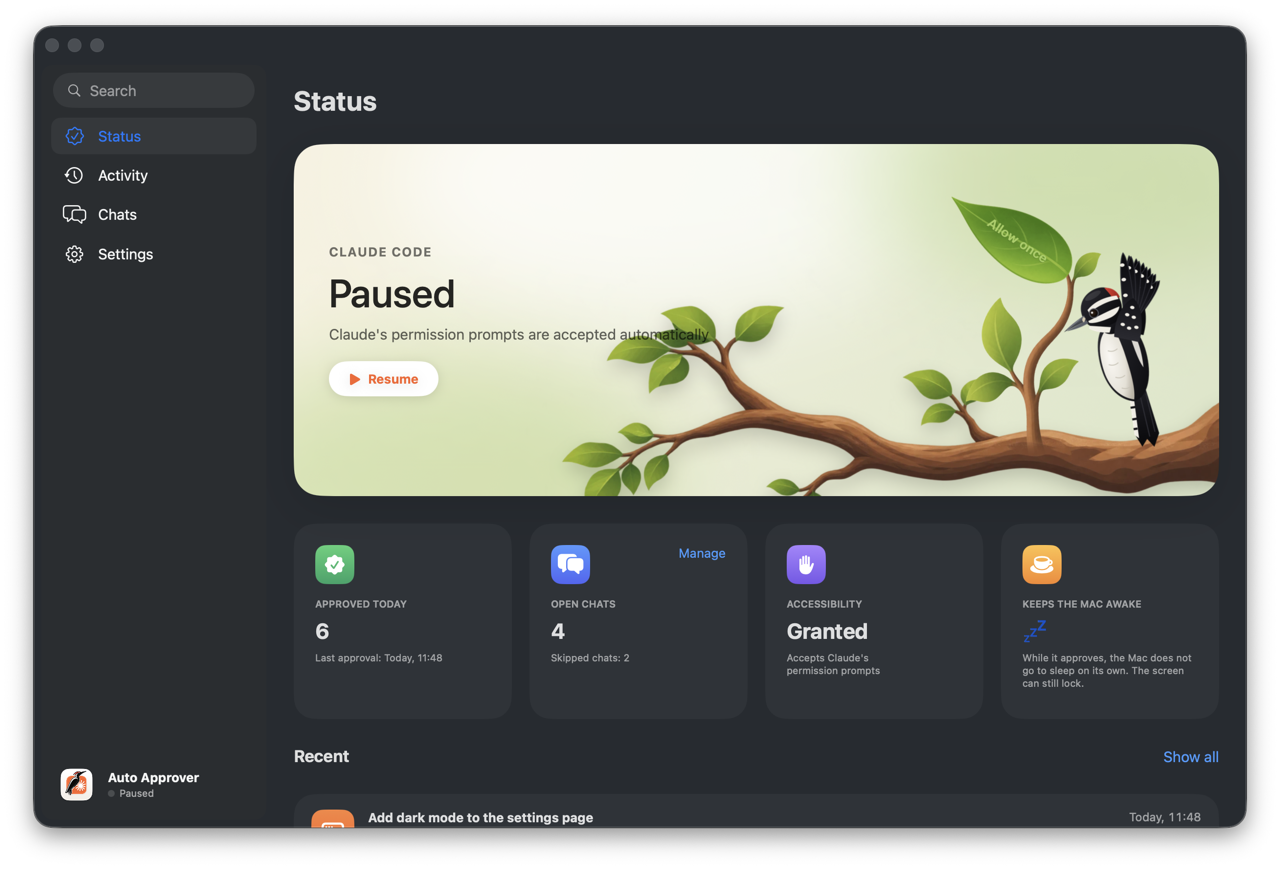
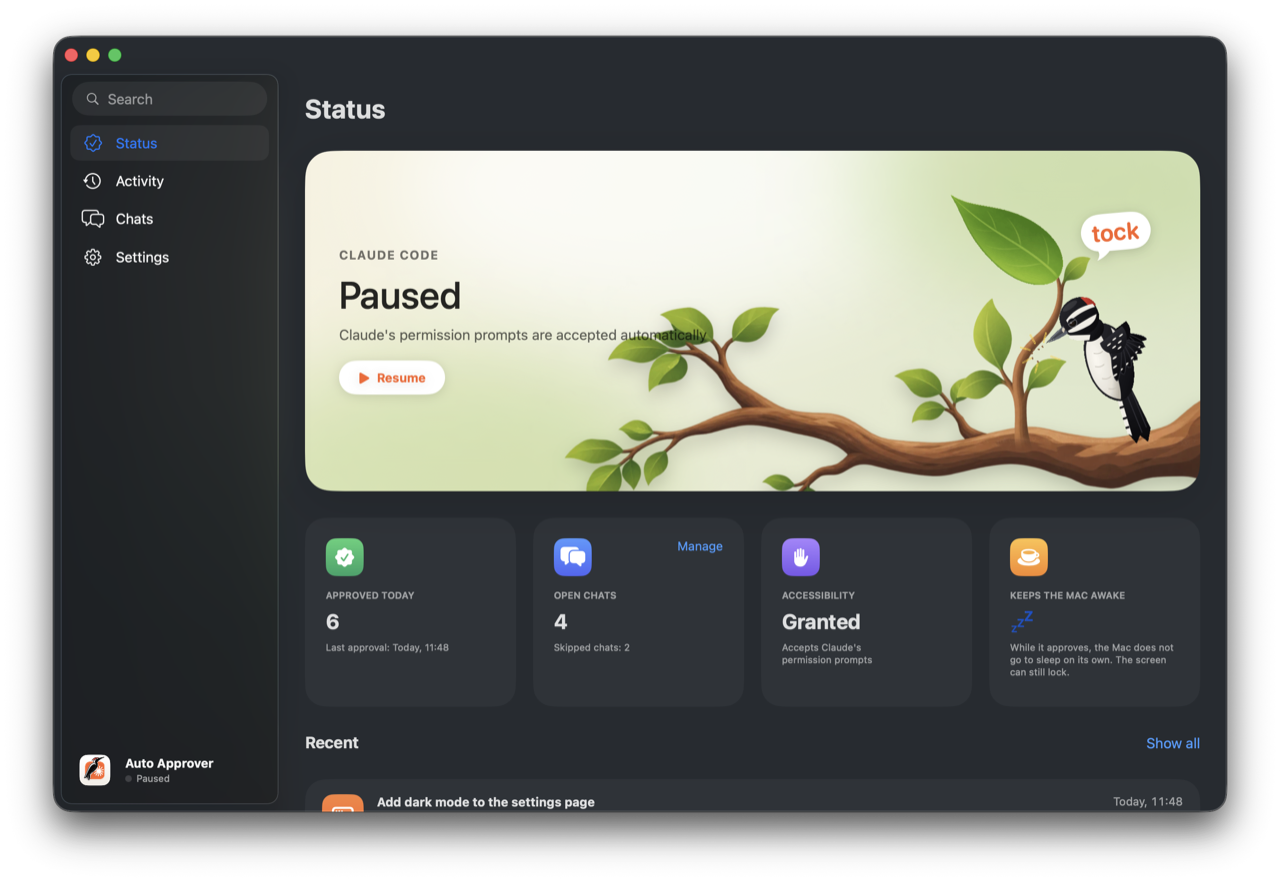
feat(macos): animate the woodland scene while auto-approve is paused
The paused Status page showed a still woodpecker. It now pecks the twig, which shakes,
and the leaf swings, on the same clock as the key scene and paused the same way while
the window is hidden. The leaf no longer carries an Allow once label, and the comic TOC!
gives way to the same white bubble as the key's tick, saying tock. Both scenes take
their strikes from the key's press file, since the two GIFs share one timeline.

Changed region(s): [[0.0, 0.0311, 1.0, 0.9942]]

diff --git a/macos/sources/app/HeroScene.swift b/macos/sources/app/HeroScene.swift
@@ -33,40 +33,90 @@ private func backdrop(_ context: inout GraphicsContext, _ size: CGSize, light: [
     }
 }
 
-/// The hero while auto-approve is paused: the woodpecker rests in a wood, by the leafy branch
-/// that comes in from the card's right edge, beside the twig the **Allow once** leaf hangs from.
+/// The sound of a strike, in a bubble: it pops in, holds and fades before the next strike,
+/// which sets its bubble at `other` instead of `at`. `unit` sizes it, and its tail curls down
+/// from `tail`, a fraction of its width from its middle, towards what was struck.
+private func drawBubble(_ word: String, in context: inout GraphicsContext, at: CGPoint, other: CGPoint,
+                        unit: CGFloat, tail: CGFloat, age: Int, odd: Bool) {
+    let text = context.resolve(Text(word).font(.system(size: unit * 0.17, weight: .semibold, design: .rounded)).foregroundColor(coral))
+    let measured = text.measure(in: CGSize(width: unit, height: unit))
+    let width = measured.width + unit * 0.16, height = measured.height + unit * 0.07
+    let place = odd ? other : at
+    var bubble = context
+    bubble.opacity = [1, 1, 1, 0.45][age]
+    bubble.translateBy(x: place.x, y: place.y - CGFloat(age))
+    bubble.rotate(by: .degrees(odd ? 5 : -5))
+    let scale = [0.62, 1.08, 1, 0.98][age]
+    bubble.scaleBy(x: scale, y: scale)
+    var shape = Path(roundedRect: CGRect(x: -width / 2, y: -height / 2, width: width, height: height), cornerRadius: height / 2, style: .continuous)
+    let foot = CGPoint(x: width * tail, y: height / 2 - 1), lean: CGFloat = tail < 0 ? -1 : 1
+    shape.move(to: CGPoint(x: foot.x - lean * unit * 0.05, y: foot.y))
+    shape.addQuadCurve(to: CGPoint(x: foot.x + lean * unit * 0.05, y: foot.y + unit * 0.07),
+                       control: CGPoint(x: foot.x - lean * unit * 0.01, y: foot.y + unit * 0.05))
+    shape.addQuadCurve(to: CGPoint(x: foot.x + lean * unit * 0.04, y: foot.y),
+                       control: CGPoint(x: foot.x + lean * unit * 0.02, y: foot.y + unit * 0.03))
+    shape.closeSubpath()
+    bubble.drawLayer { layer in
+        layer.addFilter(.shadow(color: .black.opacity(0.16), radius: 6, y: 2))
+        layer.fill(shape, with: .color(.white))
+    }
+    bubble.draw(text, at: .zero)
+}
+
+/// The hero while auto-approve is paused: in a wood, the woodpecker pecks a twig that rises from
+/// the leafy branch coming in from the card's right edge, and the **Allow once** leaf hanging
+/// from the twig swings. The bird and the leaf are the GIF's frame; the twig is drawn here, on
+/// the same clock, shaken by the angle the generator's shake file gives that frame.
 struct WoodlandScene: View {
     let artwork: CGFloat
     let inset: CGFloat
+    let animates: Bool
 
     private static let light = [Color(red: 0.97, green: 0.95, blue: 0.88), Color(red: 0.86, green: 0.90, blue: 0.78)]
     private static let green = Color(red: 0.62, green: 0.78, blue: 0.36)
-    private static let branch = picture("branch"), twig = picture("twig"), bird = picture("woodland")
+    private static let branch = picture("branch"), twig = picture("twig")
+    private static let frames = PeckFrames(gif: "woodland", values: "shake")
 
     var body: some View {
-        Canvas { context, size in
-            backdrop(&context, size, light: Self.light, glow: Self.green)
-            guard artwork > 0, let branch = Self.branch else { return }
-            let frame = birdFrame(in: size, artwork: artwork, inset: inset)
-            // The branch's cut end leaves the card at its right edge; its upper side passes just
-            // under the bird and takes the twig.
-            let width = artwork * 2.0
-            let height = width * pixels(branch).height / pixels(branch).width
-            let rect = CGRect(x: size.width + 8 - width * 0.955, y: frame.minY + frame.height * 0.9 - height * 0.55,
-                              width: width, height: height)
-            context.drawLayer { layer in
-                layer.addFilter(.shadow(color: .black.opacity(0.18), radius: 10, y: 8))
-                layer.draw(Image(nsImage: branch), in: rect)
+        ZStack {
+            Canvas { context, size in
+                backdrop(&context, size, light: Self.light, glow: Self.green)
+                guard artwork > 0, let branch = Self.branch else { return }
+                let frame = birdFrame(in: size, artwork: artwork, inset: inset)
+                // The branch's cut end leaves the card at its right edge; its upper side passes just
+                // under the bird and takes the twig.
+                let width = artwork * 2.0
+                let height = width * pixels(branch).height / pixels(branch).width
+                let rect = CGRect(x: size.width + 8 - width * 0.955, y: frame.minY + frame.height * 0.9 - height * 0.55,
+                                  width: width, height: height)
+                context.drawLayer { layer in
+                    layer.addFilter(.shadow(color: .black.opacity(0.18), radius: 10, y: 8))
+                    layer.draw(Image(nsImage: branch), in: rect)
+                }
             }
-            if let twig = Self.twig { Self.draw(twig, in: &context, frame: frame) }
-            if let bird = Self.bird { context.draw(Image(nsImage: bird), in: frame) }
+            TimelineView(.animation(minimumInterval: 1 / PeckFrames.rate, paused: !animates)) { timeline in
+                let index = PeckFrames.index(at: timeline.date, animates: animates)
+                Canvas { context, size in
+                    guard artwork > 0 else { return }
+                    let frame = birdFrame(in: size, artwork: artwork, inset: inset)
+                    if let twig = Self.twig { Self.draw(twig, in: &context, frame: frame, shake: Self.frames.value(index)) }
+                    if let bird = Self.frames.image(index) { context.draw(Image(decorative: bird, scale: 1), in: frame) }
+                    // Above the bird's head, clear of the leaf.
+                    if let struck = PeckFrames.strike(index) {
+                        func point(_ x: CGFloat, _ y: CGFloat) -> CGPoint { CGPoint(x: frame.minX + frame.width * x, y: frame.minY + frame.height * y) }
+                        drawBubble("tock", in: &context, at: point(0.86, 0.17), other: point(0.79, 0.08),
+                                   unit: frame.width * 0.36, tail: -0.2, age: struck.age, odd: struck.odd)
+                    }
+                }
+            }
         }
         .accessibilityHidden(true)
     }
 
-    /// The twig rises out of the bark at the foot of the bird's frame to where the bird's picture
-    /// hangs the leaf, both ends as fractions of that frame; the picture's base fades into the bark.
-    private static func draw(_ twig: NSImage, in context: inout GraphicsContext, frame: CGRect) {
+    /// The twig rises out of the bark at the foot of the bird's frame to where the GIF hangs the
+    /// leaf, both ends as fractions of that frame, and shakes about its foot; the picture's base
+    /// fades into the bark.
+    private static func draw(_ twig: NSImage, in context: inout GraphicsContext, frame: CGRect, shake: Double) {
         let base = CGPoint(x: frame.minX + frame.width * 0.6157, y: frame.maxY)
         let tip = CGPoint(x: frame.minX + frame.width * 0.6863, y: frame.minY + frame.height * 0.3316)
         let pictureBase = CGPoint(x: 15.1, y: 221.3), pictureTip = CGPoint(x: 417.4, y: 135.8)
@@ -74,6 +124,7 @@ struct WoodlandScene: View {
         let scale = hypot(tip.x - base.x, tip.y - base.y) / hypot(pictureTip.x - pictureBase.x, pictureTip.y - pictureBase.y)
         var placed = context
         placed.translateBy(x: base.x, y: base.y)
+        placed.rotate(by: .degrees(shake))
         placed.rotate(by: .radians(angle))
         placed.scaleBy(x: scale, y: scale)
         placed.translateBy(x: -pictureBase.x, y: -pictureBase.y)
@@ -90,22 +141,26 @@ struct KeyScene: View {
     let animates: Bool
 
     private static let light = [Color(red: 0.99, green: 0.96, blue: 0.91), Color(red: 0.98, green: 0.86, blue: 0.77)]
-    private static let frames = PeckFrames()
+    private static let frames = PeckFrames(gif: "woodpecker", values: "press")
 
     var body: some View {
         ZStack {
             Canvas { context, size in backdrop(&context, size, light: Self.light, glow: coral) }
             TimelineView(.animation(minimumInterval: 1 / PeckFrames.rate, paused: !animates)) { timeline in
-                let index = animates ? Int(timeline.date.timeIntervalSinceReferenceDate * PeckFrames.rate) : Demo.on ? Demo.frame : 0
+                let index = PeckFrames.index(at: timeline.date, animates: animates)
                 Canvas { context, size in
                     guard artwork > 0 else { return }
                     let frame = birdFrame(in: size, artwork: artwork, inset: inset)
                     // Where the beak strikes and how wide the key is, as fractions of the GIF's frame.
                     let strike = CGPoint(x: frame.minX + frame.width * 0.29, y: frame.minY + frame.height * 0.6493)
                     let side = frame.width * 0.396
-                    Self.drawKey(in: &context, strike: strike, side: side, press: Self.frames.press(index))
+                    Self.drawKey(in: &context, strike: strike, side: side, press: Self.frames.value(index))
                     if let bird = Self.frames.image(index) { context.draw(Image(decorative: bird, scale: 1), in: frame) }
-                    if let tick = Self.frames.tick(index) { Self.drawTick(in: &context, strike: strike, side: side, age: tick.age, odd: tick.odd) }
+                    if let struck = PeckFrames.strike(index) {
+                        drawBubble("tick", in: &context, at: CGPoint(x: strike.x - side * 0.5, y: strike.y - side * 0.6),
+                                   other: CGPoint(x: strike.x - side * 0.16, y: strike.y - side * 0.74),
+                                   unit: side, tail: 0.18, age: struck.age, odd: struck.odd)
+                    }
                 }
             }
         }
@@ -179,42 +234,31 @@ struct KeyScene: View {
         legend.draw(glyph.foregroundColor(Color(red: 0.55, green: 0.15, blue: 0.08).opacity(0.35)), at: CGPoint(x: 0, y: 1))
         legend.draw(glyph.foregroundColor(.white.opacity(0.96)), at: .zero)
     }
-    /// The sound of a strike, in a bubble above the key: it pops in, holds and fades before the
-    /// next strike, which sets its bubble on the other side.
-    private static func drawTick(in context: inout GraphicsContext, strike: CGPoint, side: CGFloat, age: Int, odd: Bool) {
-        let text = context.resolve(Text("tick").font(.system(size: side * 0.17, weight: .semibold, design: .rounded)).foregroundColor(coral))
-        let measured = text.measure(in: CGSize(width: side, height: side))
-        let width = measured.width + side * 0.16, height = measured.height + side * 0.07
-        var bubble = context
-        bubble.opacity = [1, 1, 1, 0.45][age]
-        bubble.translateBy(x: strike.x - side * (odd ? 0.16 : 0.5), y: strike.y - side * (odd ? 0.74 : 0.6) - CGFloat(age))
-        bubble.rotate(by: .degrees(odd ? 5 : -5))
-        let scale = [0.62, 1.08, 1, 0.98][age]
-        bubble.scaleBy(x: scale, y: scale)
-        // A capsule, and its tail curling down towards the key.
-        var shape = Path(roundedRect: CGRect(x: -width / 2, y: -height / 2, width: width, height: height), cornerRadius: height / 2, style: .continuous)
-        let foot = CGPoint(x: width * (odd ? 0.12 : 0.22), y: height / 2 - 1)
-        shape.move(to: CGPoint(x: foot.x - side * 0.05, y: foot.y))
-        shape.addQuadCurve(to: CGPoint(x: foot.x + side * 0.05, y: foot.y + side * 0.07), control: CGPoint(x: foot.x - side * 0.01, y: foot.y + side * 0.05))
-        shape.addQuadCurve(to: CGPoint(x: foot.x + side * 0.04, y: foot.y), control: CGPoint(x: foot.x + side * 0.02, y: foot.y + side * 0.03))
-        shape.closeSubpath()
-        bubble.drawLayer { layer in
-            layer.addFilter(.shadow(color: .black.opacity(0.16), radius: 6, y: 2))
-            layer.fill(shape, with: .color(.white))
-        }
-        bubble.draw(text, at: .zero)
-    }
 }
 
-/// The woodpecker's GIF, one frame at a time, and how far the key is pressed at each frame, which
-/// the GIF's generator writes beside it. A frame is decoded when shown, never all kept.
+/// A woodpecker's GIF, one frame at a time, and the value its generator writes beside it for
+/// each frame: how far the key is pressed, or the angle the twig is shaken by. A frame is
+/// decoded when shown, never all kept.
 final class PeckFrames {
     static let rate = 25.0
-    private let source = Bundle.main.url(forResource: "woodpecker", withExtension: "gif")
-        .flatMap { CGImageSourceCreateWithURL($0 as CFURL, nil) }
-    private let presses = Bundle.main.url(forResource: "press", withExtension: "json")
-        .flatMap { try? Data(contentsOf: $0) }
-        .flatMap { try? JSONDecoder().decode([Double].self, from: $0) } ?? []
+    private let source: CGImageSource?
+    private let values: [Double]
+
+    init(gif: String, values name: String) {
+        source = Bundle.main.url(forResource: gif, withExtension: "gif").flatMap { CGImageSourceCreateWithURL($0 as CFURL, nil) }
+        values = Self.read(name)
+    }
+
+    private static func read(_ name: String) -> [Double] {
+        Bundle.main.url(forResource: name, withExtension: "json")
+            .flatMap { try? Data(contentsOf: $0) }
+            .flatMap { try? JSONDecoder().decode([Double].self, from: $0) } ?? []
+    }
+
+    /// The frame to show at `date`: the clock's while it animates, else a still one.
+    static func index(at date: Date, animates: Bool) -> Int {
+        animates ? Int(date.timeIntervalSinceReferenceDate * rate) : Demo.on ? Demo.frame : 0
+    }
 
     func image(_ index: Int) -> CGImage? {
         guard let source, CGImageSourceGetCount(source) > 0 else { return nil }
@@ -222,13 +266,15 @@ final class PeckFrames {
                                                [kCGImageSourceShouldCache: false] as CFDictionary)
     }
 
-    func press(_ index: Int) -> Double { presses.isEmpty ? 0 : presses[index % presses.count] }
+    func value(_ index: Int) -> Double { values.isEmpty ? 0 : values[index % values.count] }
 
-    /// The frames a strike lands at: the press file reads fully down there.
-    private lazy var strikes = presses.indices.filter { presses[$0] == 1 }
+    /// Both GIFs follow the generator's one timeline, so the key's press file, fully down at each
+    /// strike, marks the strikes of both.
+    private static let presses = read("press")
+    private static let strikes = presses.indices.filter { presses[$0] == 1 }
 
     /// How many frames ago the last strike landed, while its bubble shows, and whether it was an odd one.
-    func tick(_ index: Int) -> (age: Int, odd: Bool)? {
+    static func strike(_ index: Int) -> (age: Int, odd: Bool)? {
         guard !presses.isEmpty else { return nil }
         let frame = index % presses.count
         guard let last = strikes.lastIndex(where: { $0 <= frame && frame - $0 < 4 }) else { return nil }

diff --git a/macos/sources/app/MainWindow.swift b/macos/sources/app/MainWindow.swift
@@ -444,7 +444,7 @@ private struct HeroCard: View {
                 if model.active {
                     KeyScene(artwork: artwork, inset: inset, animates: model.windowVisible && !Demo.on)
                 } else {
-                    WoodlandScene(artwork: artwork, inset: inset)
+                    WoodlandScene(artwork: artwork, inset: inset, animates: model.windowVisible && !Demo.on)
                 }
             }
             .clipShape(RoundedRectangle(cornerRadius: 28, style: .continuous))

diff --git a/CHANGELOG.md b/CHANGELOG.md
@@ -8,8 +8,8 @@
   request), **Chats** (skip a chat with a switch) and **Settings** (open at login, the
   buttons to press, the log). Closing it keeps the app in the menu bar.
 - The Status page shows the woodpecker flying at a big **Y** key and pressing it while
-  auto-approve runs, and resting in a wood, by an **Allow once** leaf, while it is paused. The
-  animation stops while the window is hidden.
+  auto-approve runs, and pecking a twig in a wood while it is paused. The animation stops while
+  the window is hidden.
 - The sidebar keeps its narrowest width and marks the open page as the App Store does.
 - The log records the chat and the request of each approval.
 - The menu bar icon starts next to the clock, so a notch no longer hides it.

diff --git a/README.md b/README.md
@@ -172,7 +172,7 @@ running in the menu bar.
     <td width="50%" align="center">
       <picture>
         <source media="(prefers-color-scheme: dark)" srcset="docs/window-paused-dark.png">
-        <img src="docs/window-paused-light.png" alt="The Status page while paused: the woodpecker rests on a branch in a wood">
+        <img src="docs/window-paused-light.png" alt="The Status page while paused: the woodpecker pecks a twig in a wood">
       </picture>
       <br><sub><b>Status</b>, while paused</sub>
     </td>
